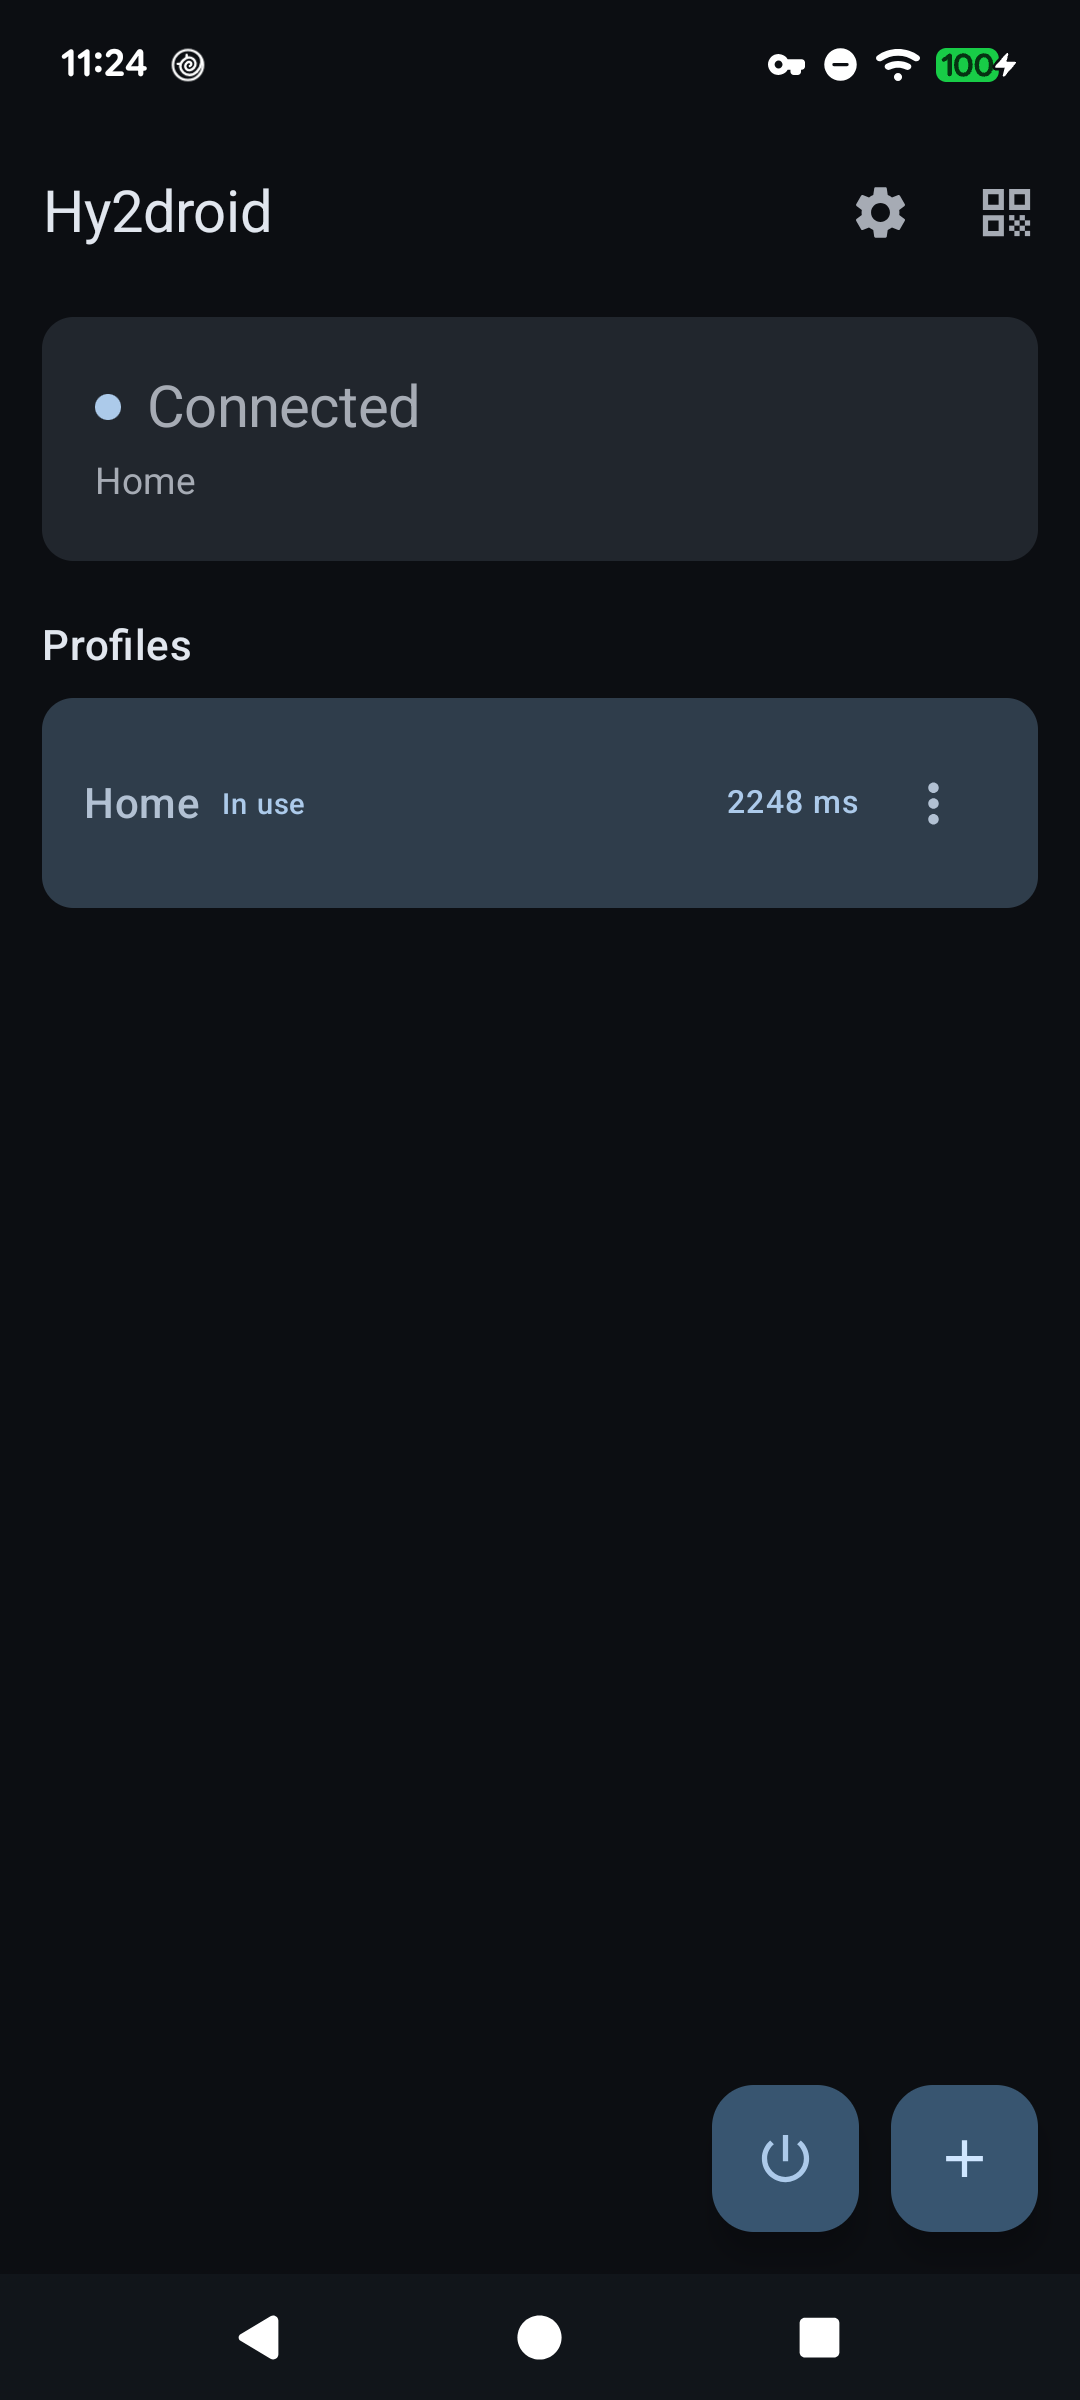
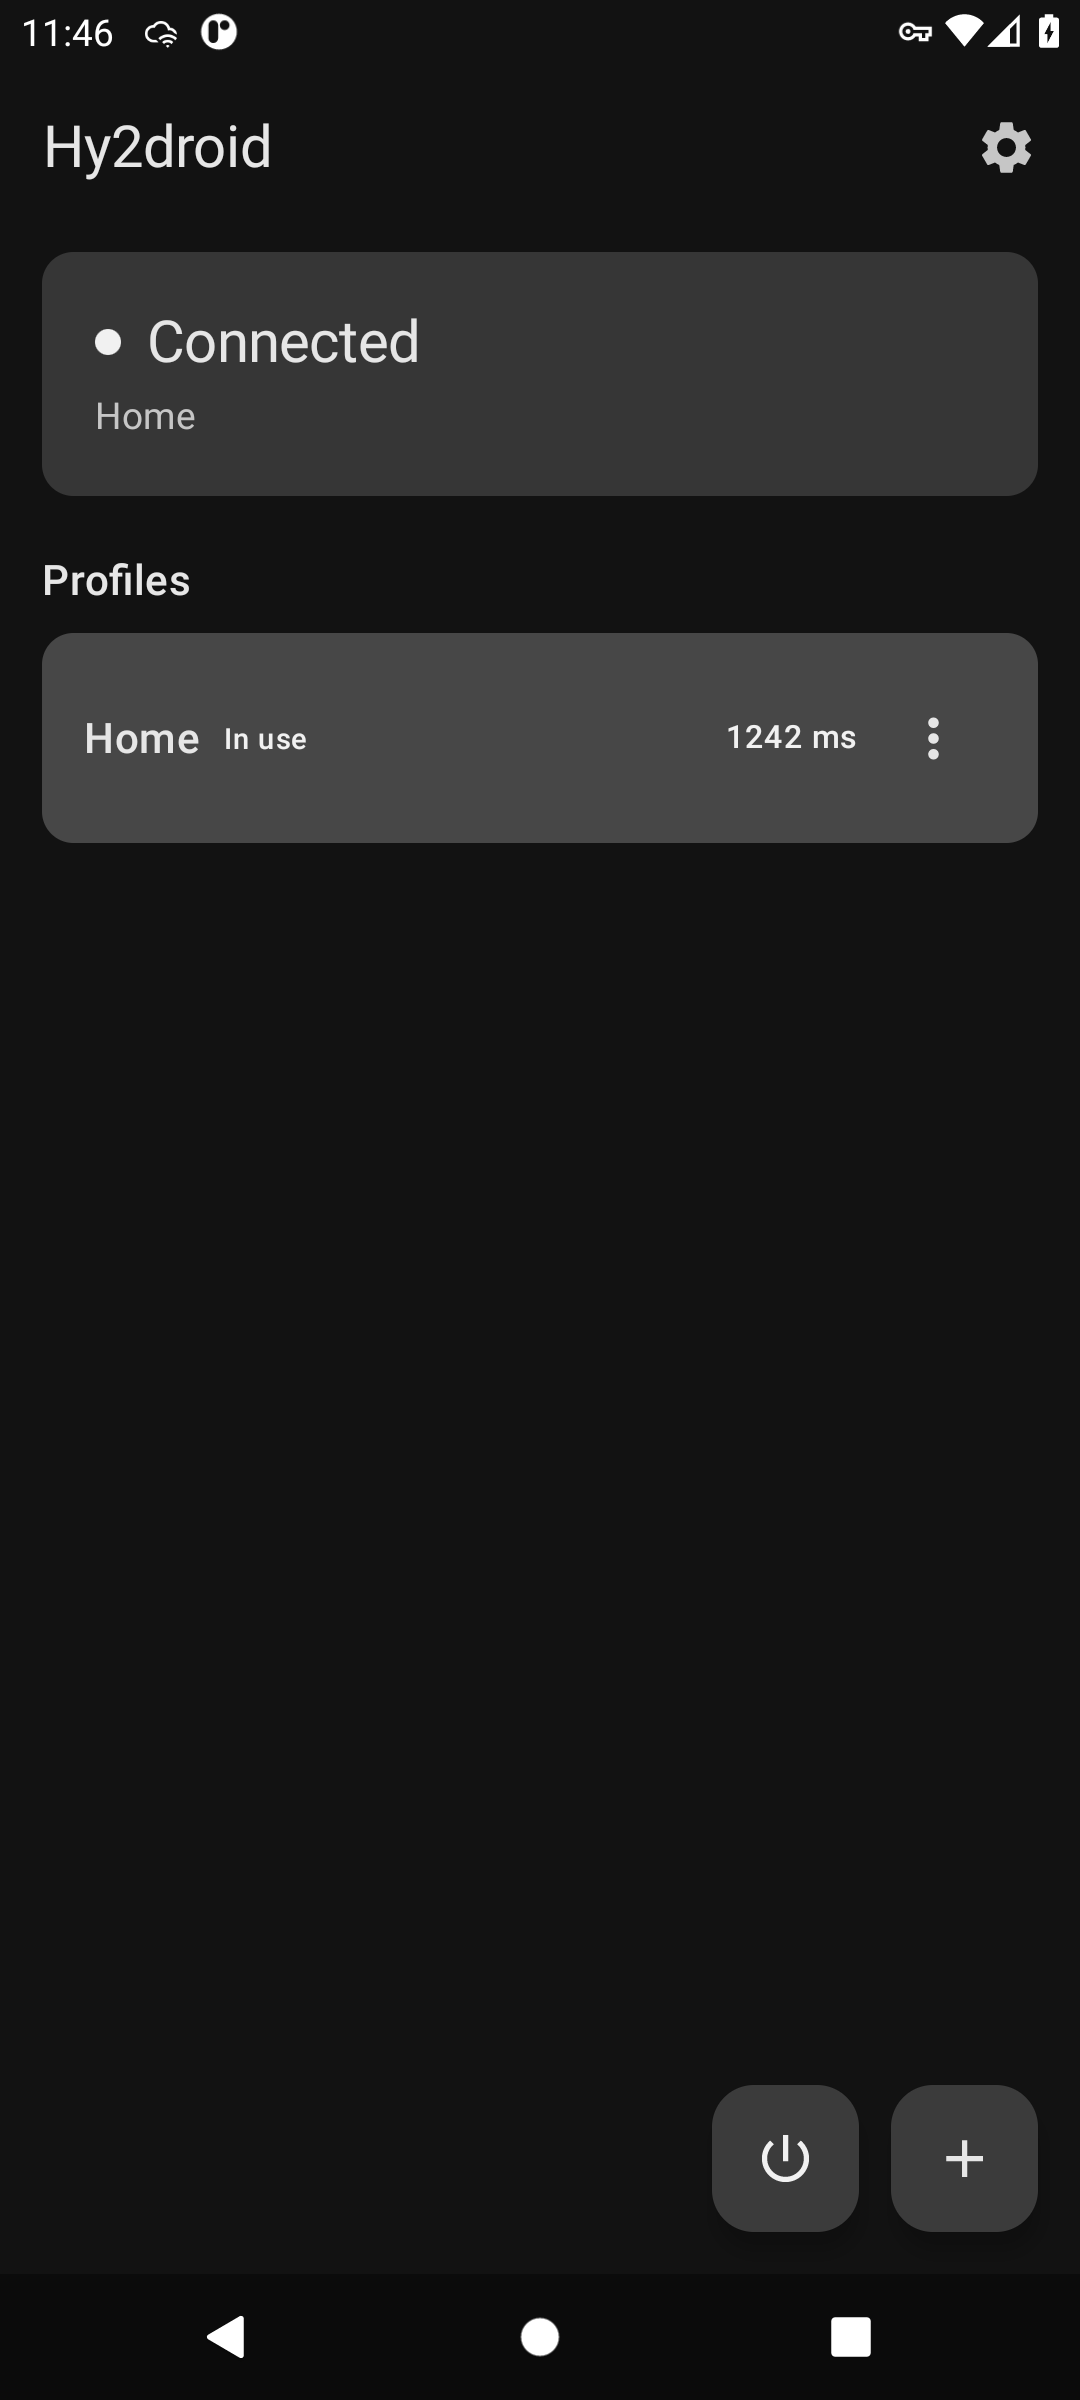
Update the Hy2droid home screenshot
The old capture still showed the toolbar scan button that the app dropped in
noelbennettz/Hy2droid 3a00088, and the alt text quoted a latency reading from
that shot. Both languages now describe the new capture.

diff --git a/docs/Hy2droid/index.html b/docs/Hy2droid/index.html
@@ -155,7 +155,7 @@
     </div>
     <div class="shots">
       <figure>
-        <img src="assets/screenshots/s1.png" width="1080" height="2400" loading="lazy" alt="Home screen: a Connected status card naming the profile Home, above a Profiles list where Home is marked In use with a 2248 ms latency reading, and the power and add-profile buttons at the bottom right.">
+        <img src="assets/screenshots/s1.png" width="1080" height="2400" loading="lazy" alt="Home screen: a Connected status card naming the profile Home, above a Profiles list where Home is marked In use with a 1242 ms latency reading, and the power and add-profile buttons at the bottom right.">
         <figcaption>Home: whether the tunnel is up, which server it uses, and how long that server takes to answer.</figcaption>
       </figure>
       <figure>

diff --git a/docs/Hy2droid/zh.html b/docs/Hy2droid/zh.html
@@ -152,7 +152,7 @@
     </div>
     <div class="shots">
       <figure>
-        <img src="assets/screenshots/s1.png" width="1080" height="2400" loading="lazy" alt="主畫面：標著「已連線」的狀態卡寫出節點名稱 Home，下方節點列表把 Home 標為使用中並顯示 2248 ms 延遲，右下角是連線與新增節點按鈕。">
+        <img src="assets/screenshots/s1.png" width="1080" height="2400" loading="lazy" alt="主畫面：標著「已連線」的狀態卡寫出節點名稱 Home，下方節點列表把 Home 標為使用中並顯示 1242 ms 延遲，右下角是連線與新增節點按鈕。">
         <figcaption>主畫面：通道是否連上、用的是哪個伺服器，以及那個伺服器回應要多久。</figcaption>
       </figure>
       <figure>
